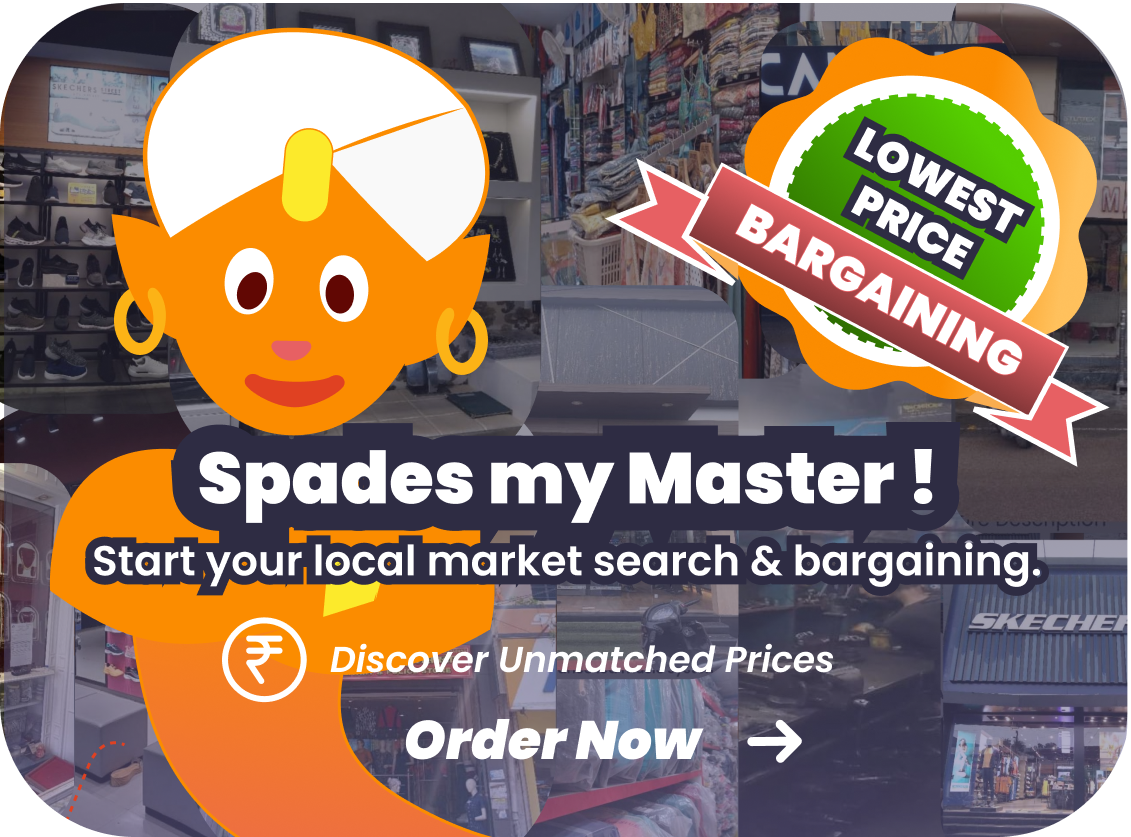
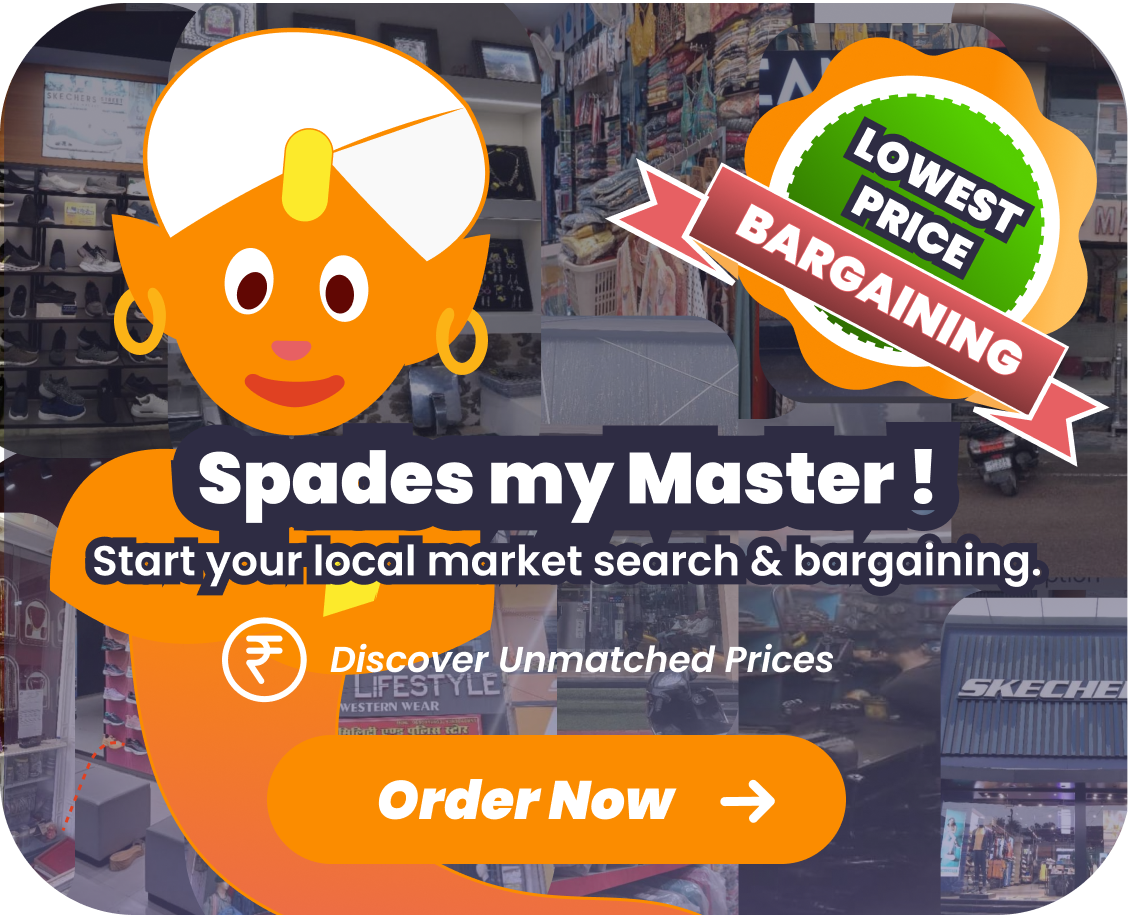
update new image home

diff --git a/App/screens/MainHome.js b/App/screens/MainHome.js
@@ -1306,14 +1306,14 @@ useEffect(() => {
                       justifyContent: "center",
                       alignItems: "center",
                       // elevation: 5,
-                      marginVertical: 8,
+                      marginVertical: 20,
                     }}
                   >
                     <Image
                       source={require("../assets/MainBanner2.png")}
                       style={{
                         width: width - 10,
-                        height: 250,
+                        height: 270,
                         borderRadius: 10,
                         resizeMode:"contain"
                       }}

diff --git a/App/screens/createRequest/RequestCategory.js b/App/screens/createRequest/RequestCategory.js
@@ -268,6 +268,7 @@ const RequestCategory = () => {
   const [modalVisible, setModalVisible] = useState(false);
   const { width } = Dimensions.get("window");
   const [categoryModal, setCategoryModal] = useState(false);
+        // console.log(searchData);
 
   const fetchNearByStores = useCallback(async () => {
     try {
@@ -339,7 +340,6 @@ const RequestCategory = () => {
       if (selectedOption !== null) {
         console.log(selectedOption);
         dispatch(setRequestCategory(selectedOption));
-        // console.log(selectedOption);
         // console.log(searchData[selectedOption - 1].name);
         // console.log(requestCategory);
 
